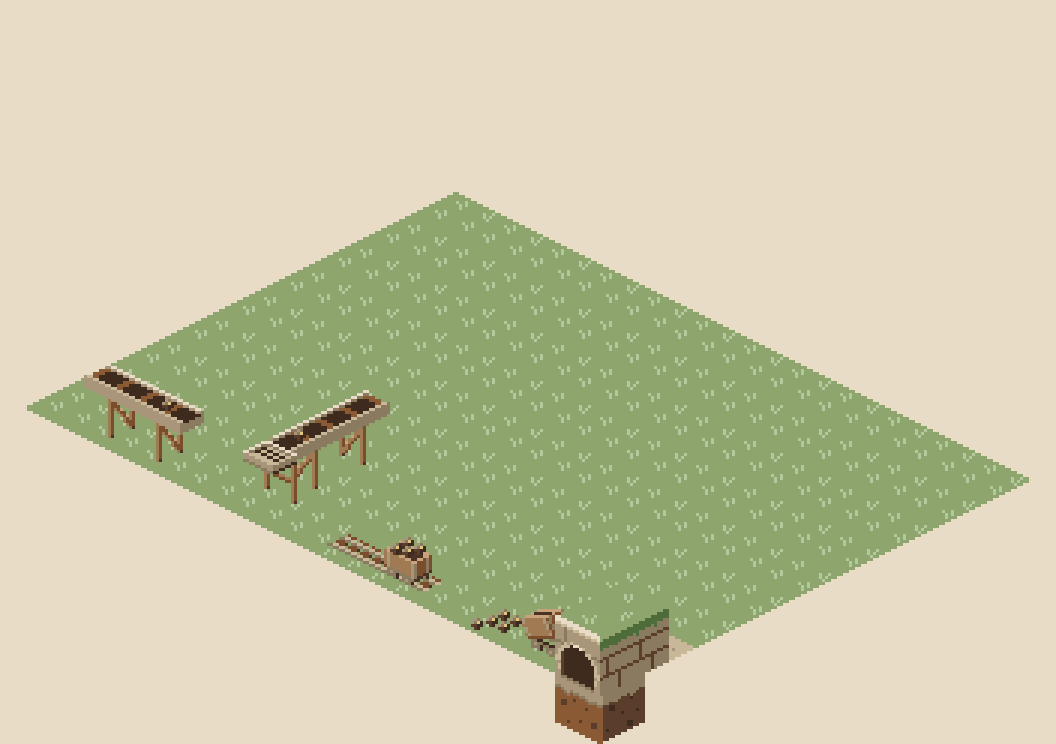
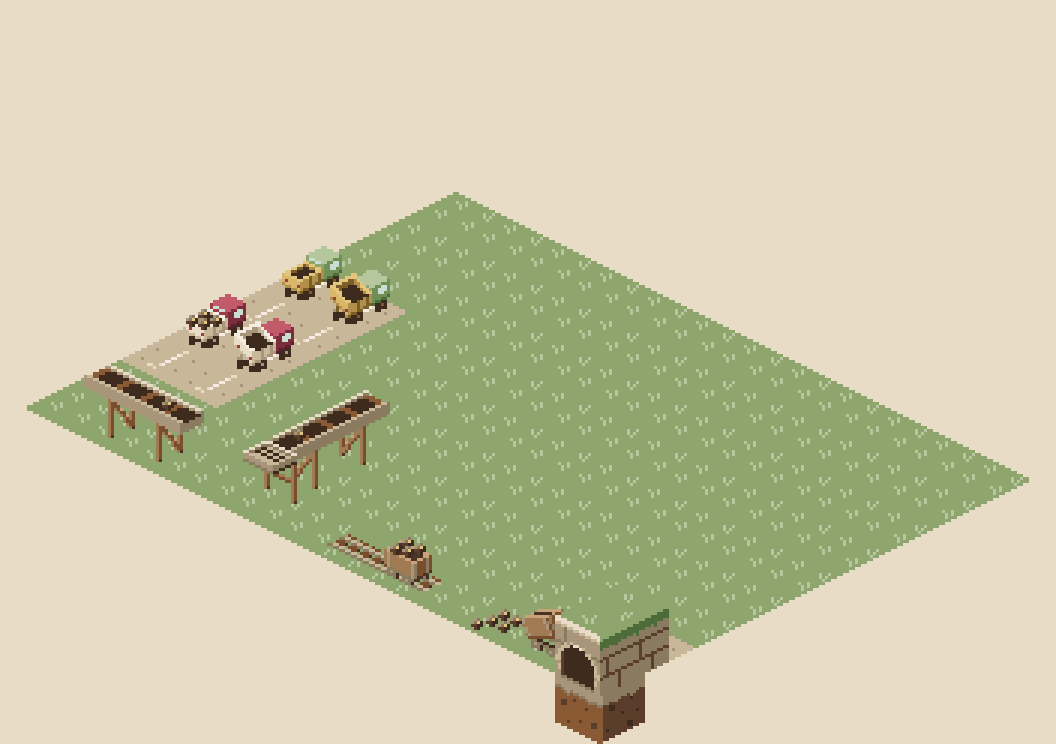
art: open-top truck, its tipped pose and green recolors for the island level up

Changed region(s): [[0.125, 0.3091, 0.375, 0.5565]]

diff --git a/docs/intents/2026-10-island-level-up/art-brief.md b/docs/intents/2026-10-island-level-up/art-brief.md
@@ -84,3 +84,5 @@ A pose is its own object named `<name>-<pose>`, with the same anchor: `extends` 
 - `ore-screen`'s rim top is at z = 16 px and it stands only behind the track, so carts roll under it. The scene lists it before the carts and the falling ore.
 - Both conveyors have their belt top at z = 16 px, one trestle per segment, and an `ff` cleat loop that steps 2 px across and 1 down. `conveyor-row` is shifted 2 units forward along its axis, so a run ending on the tile behind `ore-screen` meets its rim. A run paints back to front by col + row.
 - Open for the scene review: ore reads faintly on the dark belt (a lighter `ore` base would fix it), and the boxes' ground run may want a low conveyor (belt at about z = 6) if the `processor`'s outlet and the `container` sit low. The `processor` and `container` runs say which.
+- **Faces, corrected:** for an object long along the row axis, its long side toward the viewer is the right face (dark shade) and the left face is its short end; for one long along the col axis, the long side is the left face. The orientation table's "faces" column is read with this in mind.
+- `truck-open` is 20×18 with its anchor on the ground under its centre; the cab is at the up-right end, so its long right side (dark) faces the viewer and the tailgate is the left face. `truck-open-tipped` shears the bed toward the viewer (down-right): its open edge is about 6 px above the road, so the `hopper`'s rim must be at that height or lower. The greens extend them with 8 keys.
